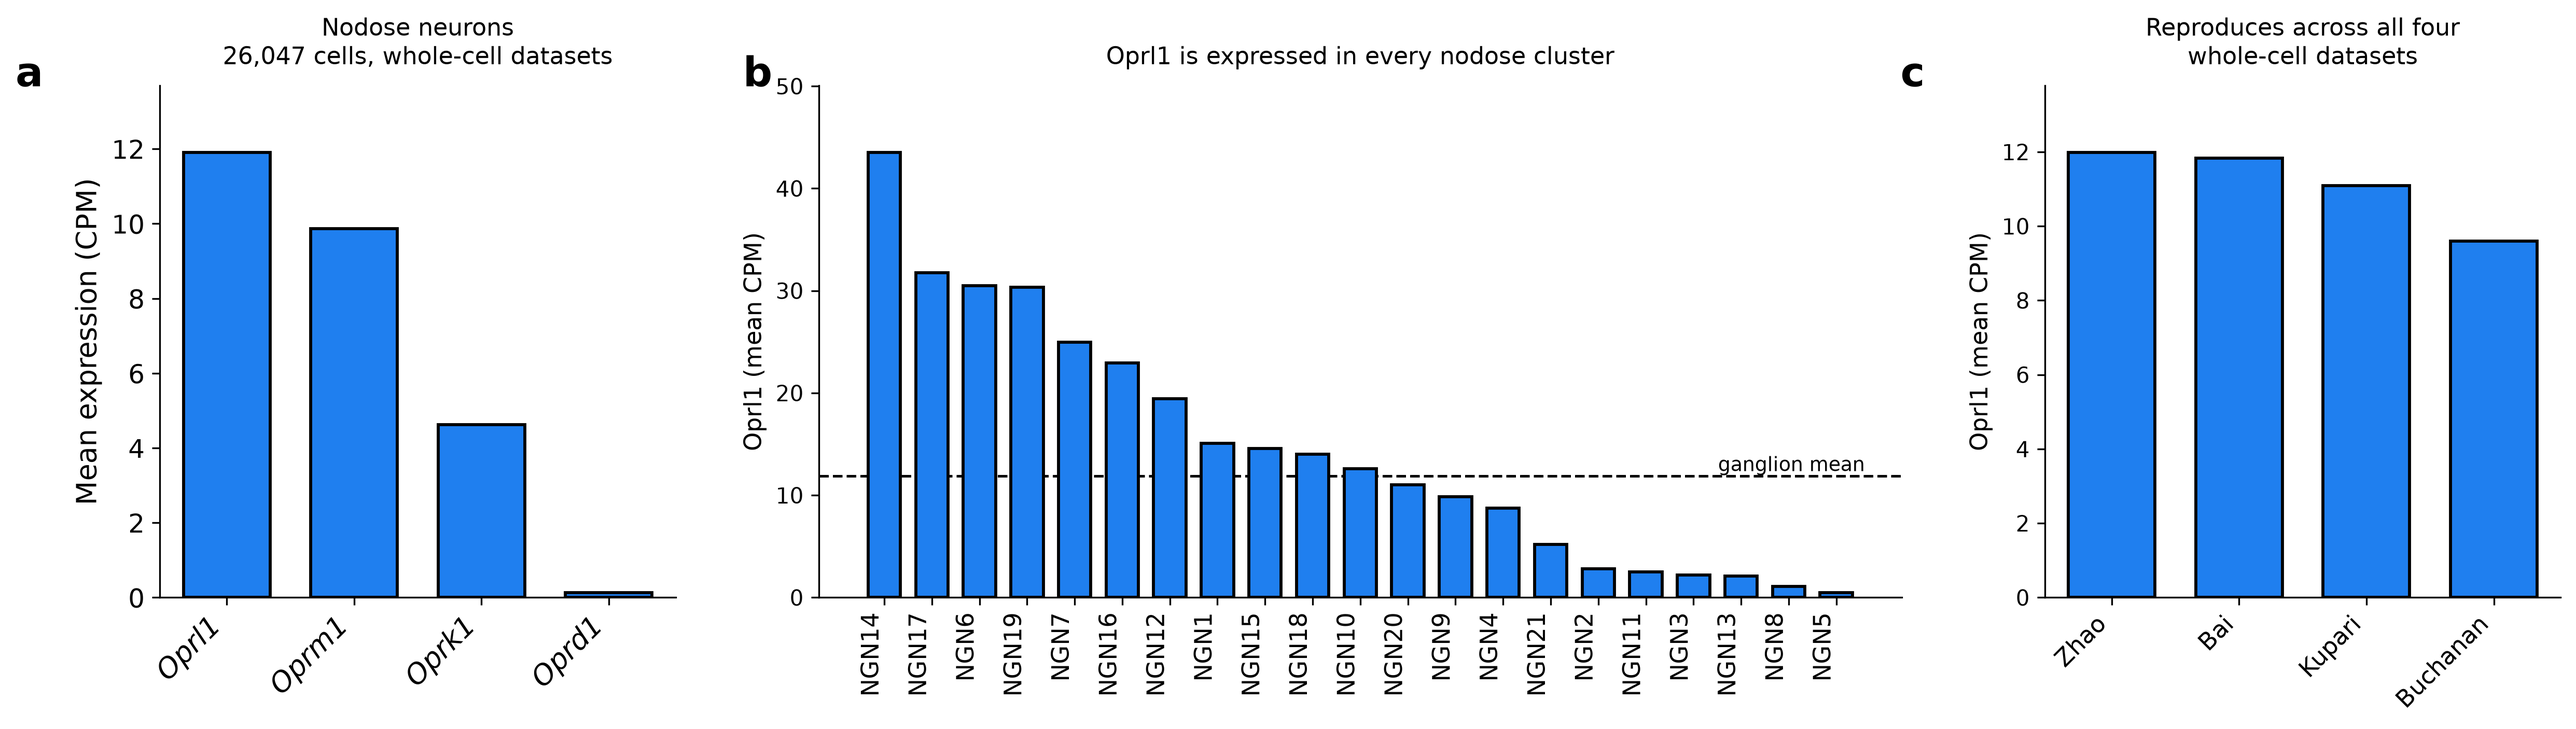
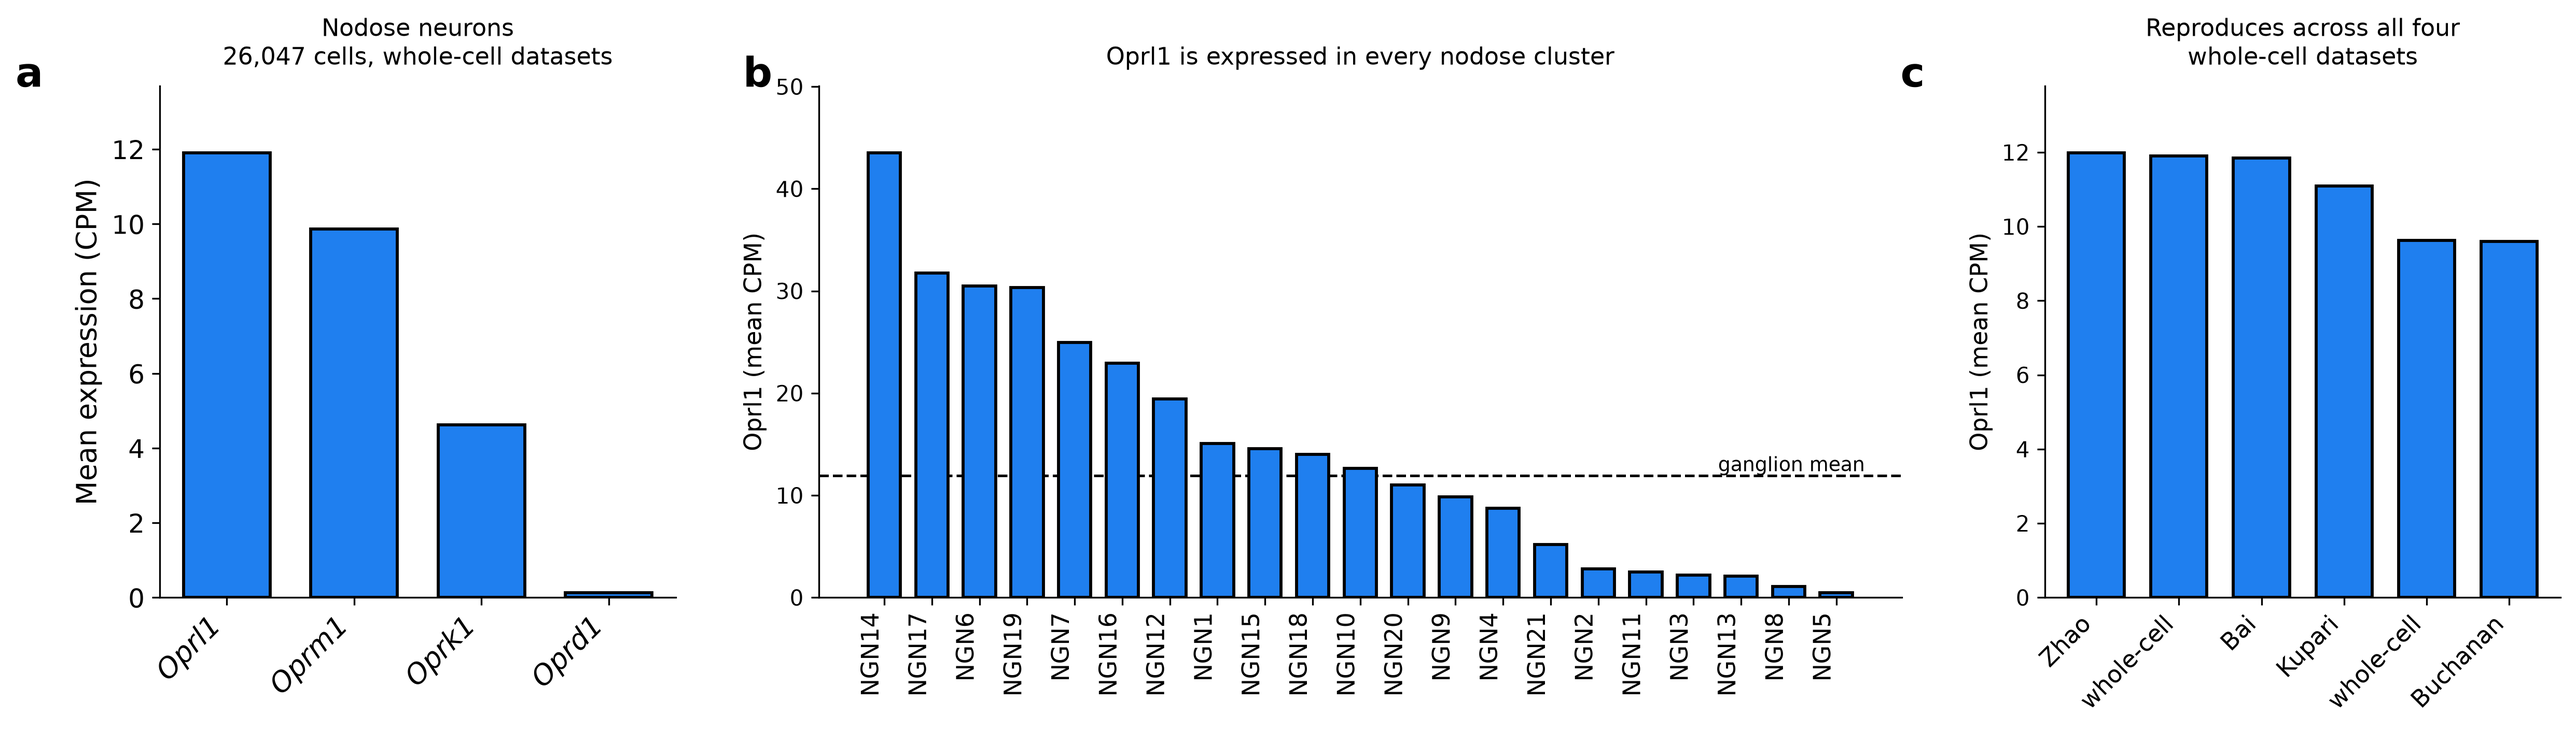
Add the jugular ganglion to the receptor comparison
Jugular neurons were already in the atlas and unused by section 1. Geniculate
and nodose are epibranchial placode-derived; jugular is neural-crest-derived and
sits in the same tissue block as the nodose, so it tests whether the receptor
ordering follows developmental origin.

Restricted to whole-cell data (n = 4,593), Oprl1 leads at 9.62 CPM against Oprm1
8.33: margin 1.16x, bootstrap support 0.897, 95% interval on the margin 0.92 to
1.47, which includes 1. Per dataset, Kupari and Zhao place Oprl1 first (support
0.99, 0.81) and Buchanan places Oprm1 first (0.51). The crest ganglion agrees in
direction at the weakest margin of any peripheral dataset here.

The pooled jugular row in nodose_opioid_levels.csv had mixed the nuclear dataset
in and gave Oprm1 19.33 over Oprl1 9.54, which is the figure S1 artefact.
02_nodose.py now emits explicit whole-cell-only nodose and jugular groups with
bootstrap support, so the section 1 numbers trace to a table rather than to the
figure code.

Added a coverage table for the peripheral sensory series. Petrosal, trigeminal,
DRG and the VIII ganglia are not measured, and DRG is where most
opioid-receptor work in sensory neurons has been done.

Checked the obvious public route to human DRG: the CELLxGENE atlas (Nguyen et
al., eLife 2021, 1,837 nuclei) quantifies 31,654 genes including OPRM1, OPRD1
and OPRK1, and OPRL1 is absent under both symbol and Ensembl ENSG00000125510.
[…]

diff --git a/src/02_nodose.py b/src/02_nodose.py
@@ -158,7 +158,12 @@ def main() -> int:
 
     # ------------------------------------------------ levels, pooled and split
     rows, means = [], {}
-    groups = [("nodose", "NodoMap", is_nodose, "mixed (pooled)"),
+    # Whole-cell-only groups carry the section 1 comparison; the pooled rows mix
+    # in the nuclear dataset and are reported for completeness only.
+    wc = obs["suspension_type"].values == "cell"
+    groups = [("nodose", "NodoMap:whole-cell", is_nodose & wc, "whole cell"),
+              ("jugular", "NodoMap:whole-cell", is_jugular & wc, "whole cell"),
+              ("nodose", "NodoMap", is_nodose, "mixed (pooled)"),
               ("jugular", "NodoMap", is_jugular, "mixed (pooled)"),
               ("nodose+jugular", "NodoMap", is_neuron, "mixed (pooled)")]
     for ds in obs["dataset"].cat.categories:
@@ -187,6 +192,17 @@ def main() -> int:
         ranks.append(r)
     rank_tbl = pd.concat(ranks, ignore_index=True)
     ac.save_table(rank_tbl, "nodose_receptor_rank.csv")
+
+    # Jugular is the only neural-crest-derived ganglion in this atlas, so it
+    # tests whether the receptor ordering holds outside the placodal series.
+    for label, mask in (("nodose", is_nodose & wc), ("jugular", is_jugular & wc)):
+        lib = total[mask].astype(float)
+        lib[lib == 0] = 1.0
+        pc = counts.loc[mask, [g for g in ac.RECEPTORS
+                               if g in counts.columns]].div(lib, axis=0) * 1e6
+        b = ac.bootstrap_receptor_support(pc, n_boot=N_BOOT)
+        b.update({"dataset": "NodoMap:whole-cell", "tissue": label})
+        support.append(b)
 
     for ds in obs["dataset"].cat.categories:
         mask = is_neuron & (obs["dataset"] == ds).values

diff --git a/README.md b/README.md
@@ -34,7 +34,8 @@ unit (`results/*_opioid_levels.csv`):
 |---|---|---|---|---|---|---|
 | GSE102443 (FPKM) | geniculate | 5.73 | 0.18 | 0.31 | 0.83 | 31× |
 | GSE135801 (CPM) | geniculate | 18.98 | 0.01 | 4.72 | 3.61 | large |
-| NodoMap, nodose neurons (CPM) | nodose | 11.90 | 9.86 | 0.13 | 4.63 | 1.2× |
+| NodoMap, nodose neurons (CPM) | nodose | 11.90 | 9.86 | 0.13 | 4.63 | 1.21× |
+| NodoMap, jugular neurons (CPM) | jugular | 9.62 | 8.33 | 0.92 | 0.90 | 1.16× |
 | GSE166648, NTS neurons (CPM) | NTS | 15.79 | 118.04 | 9.62 | 11.75 | 0.13× |
 
 The geniculate result carries the claim. *Oprl1* at 5.73 FPKM against *Oprm1* at 0.18 is an
@@ -54,11 +55,42 @@ demonstrations of it.
 
 ![Oprl1 across the NodoMap atlas](figures/figure2_nodose_oprl1.png)
 
+The jugular ganglion marks the edge of the claim. Geniculate and nodose are epibranchial
+placode-derived; the jugular is neural-crest-derived and sits in the same tissue block as the
+nodose, so it tests whether the ordering follows developmental origin. Restricted to whole-cell
+data, *Oprl1* leads there at 9.62 CPM against *Oprm1* 8.33, a margin of 1.16× with bootstrap
+support 0.897 and a 95% interval on the margin of 0.92 to 1.47, which includes 1. Across the three
+jugular datasets with enough cells, Kupari and Zhao place *Oprl1* first (support 0.99 and 0.81)
+and Buchanan places *Oprm1* first at support 0.51. The crest ganglion agrees in direction at the
+weakest margin measured in any peripheral dataset here.
+
 The eight-dataset version of this comparison is figure S3 in [`SUPPLEMENT.md`](SUPPLEMENT.md).
 
 The two single-nucleus datasets place *Oprm1* first. This is a preparation artefact: nuclear
 preparations retain unspliced pre-mRNA and *Oprm1* spans 250 kb against *Oprl1*'s 6 kb. See
 [`SUPPLEMENT.md`](SUPPLEMENT.md). Those datasets carry no claim here.
+
+### Coverage of the peripheral sensory series
+
+| ganglion | origin | status |
+|---|---|---|
+| geniculate (VII) | epibranchial placode | measured |
+| nodose (X) | epibranchial placode | measured |
+| jugular (X superior) | neural crest | measured |
+| petrosal (IX) | epibranchial placode | not measured |
+| trigeminal (V) | crest and placode | not measured |
+| dorsal root ganglion | neural crest | not measured |
+| spiral and vestibular (VIII) | otic placode | not measured |
+
+The claim covers cranial visceral and gustatory afferents plus one crest ganglion. The dorsal root
+ganglion is where most opioid-receptor work in sensory neurons has been done, and it is not
+covered here.
+
+The obvious public route to human DRG does not carry the gene. The CELLxGENE human DRG atlas
+(Nguyen et al., eLife 2021, 1,837 nuclei) quantifies 31,654 genes including *OPRM1*, *OPRD1* and
+*OPRK1*, and *OPRL1* appears under neither symbol nor Ensembl identifier ENSG00000125510. That is
+a reference gap rather than a measured zero, the same situation as *Pnoc* in GSE102443. The
+dataset is also single-nucleus, which biases toward *OPRM1* for the reason in figure S1.
 
 ## 2. *Oprl1* is expressed in most neurons of the ganglion
 
